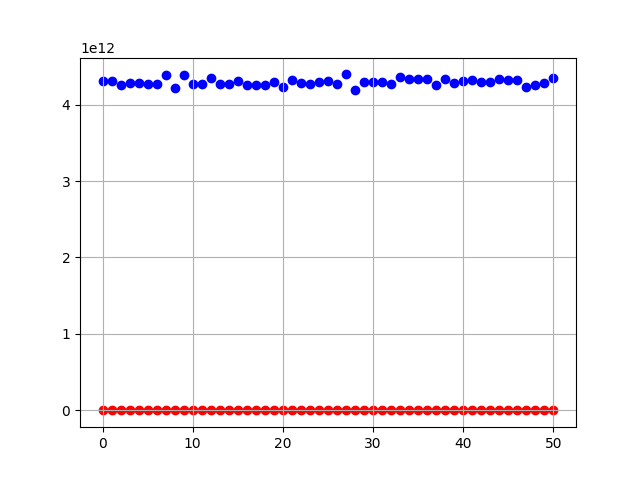
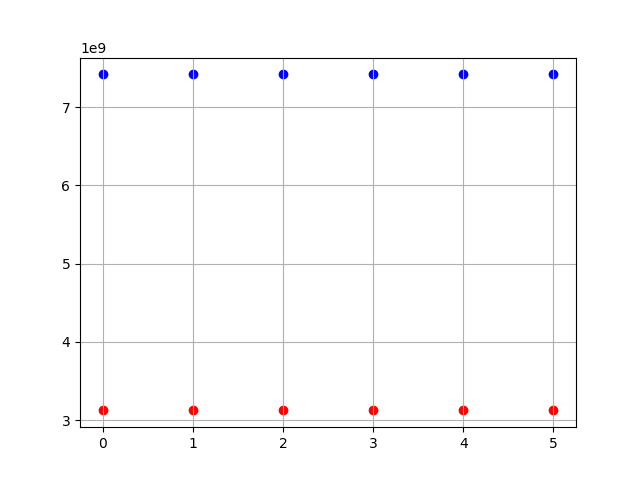
Checked masking and validity of message size

diff --git a/test_additivity2.py b/test_additivity2.py
@@ -5,6 +5,8 @@ import matplotlib.pyplot as plt
 
 from fahe2 import dec2, enc2, keygen2
 
+import math
+
 # Printing values
 RED = "\033[91m"
 GREEN = "\033[92m"
@@ -18,8 +20,8 @@ LAMBDA_PARAM = 128  # security param (normally 128 or 256)
 M_MAX = 32  # max size of msgs in bits (normally 32 or 64)
 ALPHA = 22  # determines num_additions
 NUM_ADDITIONS = 1000  # normally max is 2**(ALPHA-1)
-NUM_TRIALS = 51  # how many times you want to test (-1)
-MSG_SIZE = 32  # optional, normally same as M_MAX
+NUM_TRIALS = 6  # how many times you want to test (-1)
+MSG_SIZE = 23  # optional, normally same as M_MAX
 ENCRYPTION_SCHEME = 2  # 1 for FAHE1, 2 for FAHE2, else error
 SET_MSG = random.getrandbits(MSG_SIZE)  # only in use when populate bool is True
 
@@ -132,7 +134,9 @@ def analyze_add(
         "M_MAX                      : {}\n"
         "------------------\n"
         "M SUM                      : {}\n"
+        "Bit length of M SUM        : {}\n"
         "Ciphertext DECRYPT SUM     : {}\n"
+        "Bit length of Decrypted sum: {}\n"
         "Was this successful        : {}\n"
         "DECRYPT Ciphertext LENGTH  : {}\n".format(
             ENCRYPTION_SCHEME,
@@ -140,11 +144,17 @@ def analyze_add(
             ALPHA,
             NUM_ADDITIONS,
             M_MAX,
-            msg_sum,
+            bin(msg_sum),
+            msg_sum.bit_length(),
             (
-                fahe1_get_decrypted_sum(ciph_sum)
+                bin(fahe1_get_decrypted_sum(ciph_sum))
                 if ENCRYPTION_SCHEME == 1
-                else fahe2_get_decrypted_sum(ciph_sum)
+                else bin(fahe2_get_decrypted_sum(ciph_sum))
+            ),
+            (
+                fahe1_get_decrypted_sum(ciph_sum).bit_length()
+                if ENCRYPTION_SCHEME == 1
+                else fahe2_get_decrypted_sum(ciph_sum).bit_length()
             ),
             was_successful,
             ciph_length,
@@ -197,6 +207,11 @@ def add_fahe2(index: int) -> bool:
     print("Compiled messages...")
     # print(len(msg_list))
     # time.sleep(1000)
+
+    if math.ceil(math.log2(MSG_SIZE * (2**NUM_ADDITIONS - 1))) <= M_MAX:
+        print("It's likely to work.")
+    else:
+        print("It's not likely to work.")
 
     ciph_list = fahe2_populate_ciph_list(msg_list)
     print("Encrypted messages...")
